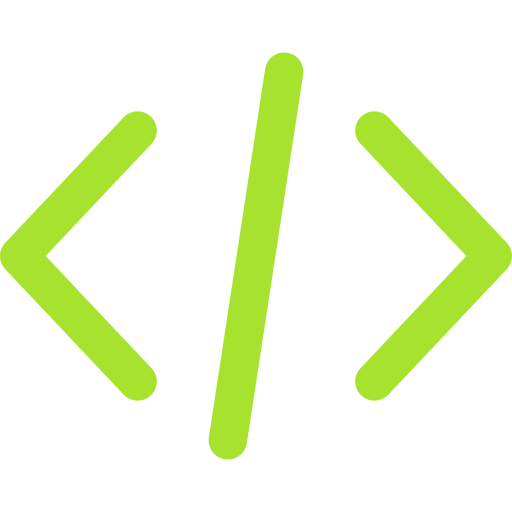
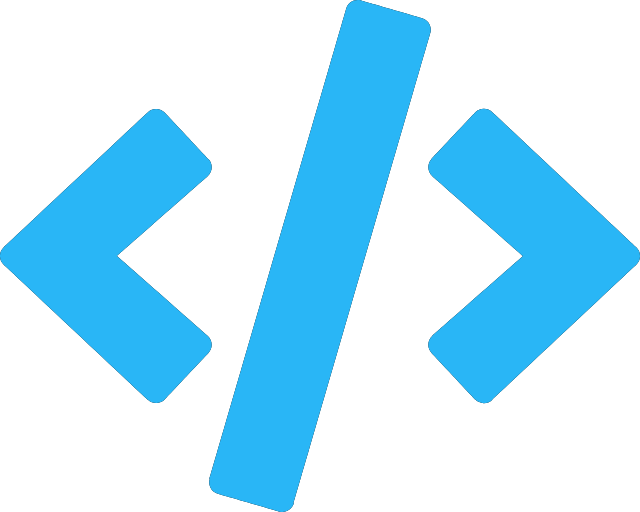
Refactor ToolBar & Degree Title

diff --git a/src/views/Degree.vue b/src/views/Degree.vue
@@ -10,21 +10,18 @@
       disable-pagination
     >
       <template v-slot:top>
-        <v-card-title>
+        <v-card-title
+          :style="
+            inMobile
+              ? 'font-size: medium; line-height: 3;'
+              : 'font-size: large;'
+          "
+        >
           <font-awesome-icon
             class="mx-5"
             :icon="groups[crrGid].icon"
             size="2x"
           />
-          <v-spacer />
-          Average
-          <v-chip
-            class="mx-2"
-            :style="getScoreStyle(crrAvg)"
-            v-text="crrAvg.toFixed(1)"
-          />
-          <v-spacer />
-          Subjects ({{ groups[crrGid].name }})
           <v-spacer />
           <v-menu transition="slide-y-transition" offset-y>
             <template v-slot:activator="{ on }">
@@ -49,6 +46,17 @@
               </v-list-item>
             </v-list>
           </v-menu>
+          <v-spacer />
+          {{ groups[crrGid].name }}
+          <v-spacer />
+          <div>
+            Subjects Average
+            <v-chip
+              class="mx-2"
+              :style="getScoreStyle(crrAvg)"
+              v-text="crrAvg.toFixed(1)"
+            />
+          </div>
           <v-spacer />
           <v-text-field
             v-model="search"
@@ -96,6 +104,7 @@ const CCS = 2;
 
 @Component
 export default class Degree extends Vue {
+  inMobile: boolean = window.innerWidth < 1250;
   search: string = "";
   crrGid: number = CES;
   crrAvg: number = -1;
@@ -226,8 +235,11 @@ export default class Degree extends Vue {
   ];
   items!: Subject[];
 
-  created() {
+  async created() {
     this.loadData();
+    window.addEventListener("resize", () => {
+      this.inMobile = window.innerWidth < 1250;
+    });
   }
 
   loadData() {
@@ -583,7 +595,7 @@ export default class Degree extends Vue {
 <style scoped>
 a {
   text-decoration: none;
-  font-size: large;
+  font-size: medium;
 }
 #data-table {
   background-color: transparent;
@@ -594,6 +606,6 @@ a {
   text-indent: inherit;
   text-transform: none;
   white-space: normal;
-  font-size: large;
+  font-size: inherit;
 }
 </style>

diff --git a/src/components/OptyToolBar.vue b/src/components/OptyToolBar.vue
@@ -70,7 +70,7 @@ import { Vue, Component } from "vue-property-decorator";
 
 @Component
 export default class OptyToolBar extends Vue {
-  pageTitle: string = "Opty@Page";
+  pageTitle: string = "Opty Page";
 
   inMobile: boolean = window.innerWidth < 1250;
   drawer: boolean = false;
@@ -117,9 +117,9 @@ export default class OptyToolBar extends Vue {
 
 <style scoped>
 .v-toolbar__title,
-.v-list-item .v-list-item__subtitle {
-  color: white;
-  font-style: oblique;
+.theme--dark.v-list-item .v-list-item__subtitle,
+.theme--dark.v-list-item .v-list-item__action-text {
+  color: #29b6f6;
 }
 .v-btn {
   font-weight: normal;
@@ -132,7 +132,7 @@ export default class OptyToolBar extends Vue {
   font-size: large;
 }
 .v-list-item .v-list-item__title {
-  font-size: large;
+  font-size: medium;
 }
 .no-effect::before {
   opacity: 0 !important;

diff --git a/src/views/Home.vue b/src/views/Home.vue
@@ -53,6 +53,7 @@
         href="https://github.com/Opty1337/Opty-Page"
         target="_blank"
         dark
+        :style="inMobile ? 'font-size: medium;' : 'font-size: large;'"
       >
         <font-awesome-icon
           class="ma-2"
